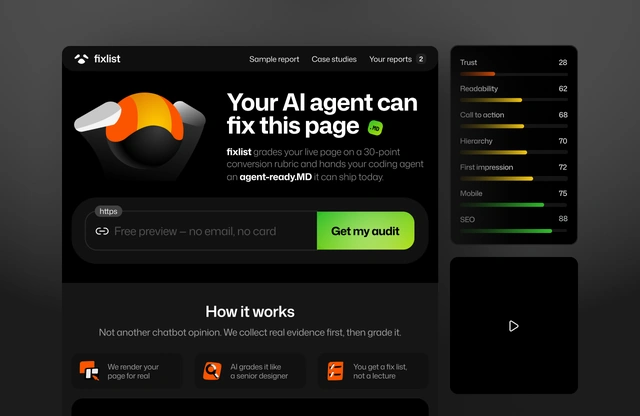
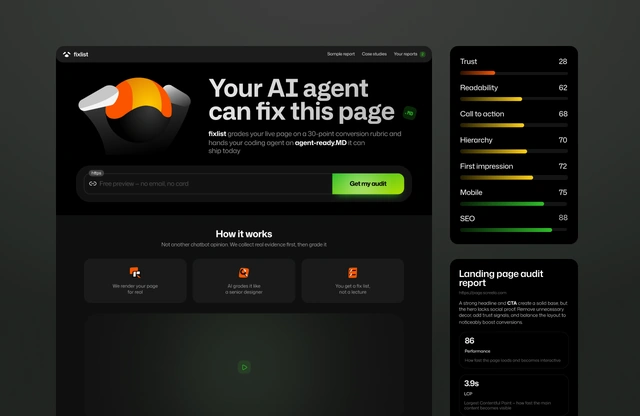
Sync fixlist screenshots with the latest product screens
img-1 (hero) now includes the full-width video block under "How it
works" instead of the earlier three-cards-then-video layout. img-4
(free report) is back to the score badge with a "See findings" pill.
Cover and the homepage hero's project-3/2 slot updated to match.

diff --git a/src/data/case-fixlist.ts b/src/data/case-fixlist.ts
@@ -26,7 +26,7 @@ export const fixlist: CaseStudy = {
       src: `${SHOT}/img-1.webp`,
       alt: 'The fixlist.dev landing page: the promise, a URL field offering a free preview with no email and no card, and the three-step how-it-works section',
       w: 1440,
-      h: 1215,
+      h: 1489,
     },
     {
       type: 'image-row',
